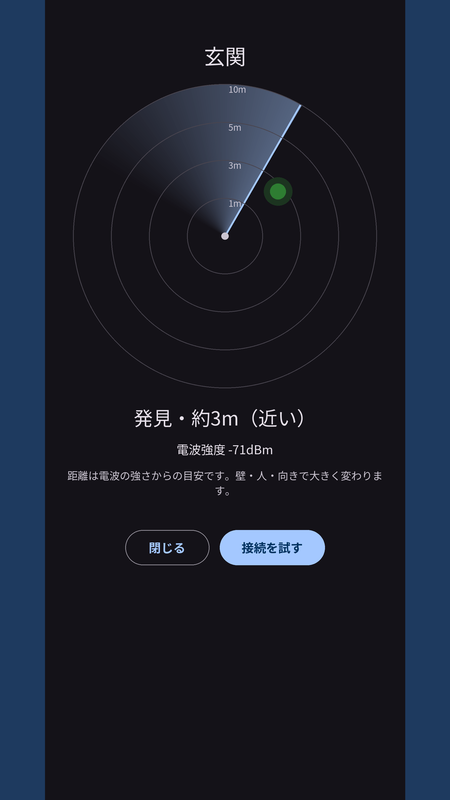
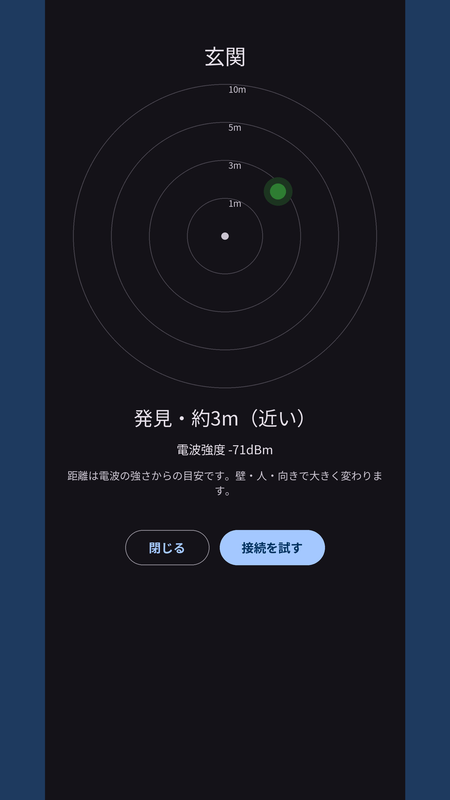
feat: 0台時の追加導線・全デバイスの接続確認の配置・接続確認のヘルプを見直し、文書を現行UIへ追従する (#100)
* refactor: ♻ 登録0台のときの追加導線を右下のボタンだけにする

空状態の「Sesameを追加」ボタンを外し、右下のボタンと導線が2つ並ばないようにした。
本文で右下のボタンの場所を案内する。ヘルプへの導線は残す。
RELEASE_NOTES・DESIGN・EXECUTEを更新した。

Claude-Session: https://claude.ai/code/session_01WnqNbaNbKwV6c5SNHH6CXg

* docs: 📝 0台時の追加導線の実機確認結果をEXECUTEへ記録する

Claude-Session: https://claude.ai/code/session_01WnqNbaNbKwV6c5SNHH6CXg

* fix: 🐛 EXECUTEの追記でYAMLが壊れていた箇所を直す

検証結果の文中の「コロン＋半角空白」でYAMLとして読み込めなかったため、句点へ置き換えた。

Claude-Session: https://claude.ai/code/session_01WnqNbaNbKwV6c5SNHH6CXg

* feat: ✨ 全デバイスの接続確認を右上アイコンと一覧末尾へ移し、接続確認のヘルプを追加する

全デバイスの接続確認ボタンが一覧の先頭にあり、よく使うカードを下へ押していたため、
右上のBluetoothアイコンと、一覧の末尾（カードの後ろ）の2か所へ移した。
接続確認の使い方をヘルプへ追加し、接続確認の画面の「この画面の見方」から直接開けるようにした。
ヘルプと操作画面に残っていた旧「⋮」の案内を歯車へ直した。

Claude-Session: https://claude.ai/code/session_01WnqNbaNbKwV6c5SNHH6CXg

* docs: 📝 ヘルプ文言を見直し、サイトと利用者向け文書の旧UI表記を更新する (BL-284)

ヘルプの日本語を整えた（一番下・つながって・重複や回りくどい表現）。タイルの「更新」など
実装と食い違っていた説明を直し、テストで固定した。公式アプリの案内文の「掴み」も改めた。
サイトへ接続確認の機能カードと画面イメージを追加し、README・USER_GUIDE・STORE_LISTINGと
デバッグ版の撮影モード画面に残っていた旧「⋮メニュー」の表記を設定画面へ直した。
旧UIのままの掲載スクリーンショットの撮り直しをBL-284として起票した。

Claude-Session: https://claude.ai/code/session_01WnqNbaNbKwV6c5SNHH6CXg

* docs: 📝 UIデザイン設計書を現行のUI（設定画面・接続確認）へ追従する

設定を歯車から開く設定画面、通知ページ、ヘルプのページ、操作履歴のページ、主画面の変更
（右上のBluetoothアイコン・一覧末尾の接続確認・空状態）、接続確認（スマートフォン・ウォッチ）の
章を更新・追加した。画面イメージは実機のスクリーンショットではないと明記した。

Claude-Session: https://claude.ai/code/session_01WnqNbaNbKwV6c5SNHH6CXg

* fix: 🐛 アニメーションがオフの端末でレーダーの掃引線を描かない

ウォッチの接続確認で回る線が動かない原因は、端末のアニメーション スケールが0のためで、
[…]

Changed region(s): [[0.28, 0.0938, 0.6844, 0.3125]]

diff --git a/index.html b/index.html
@@ -134,6 +134,11 @@
             <p>Sesame の近くでは Bluetooth で直接操作し、離れているときはインターネット経由へ自動で切り替えます。どちらで操作したかも表示します。</p>
           </li>
           <li class="card">
+            <span class="tag">接続確認</span>
+            <h3>Bluetooth で届くかを目で確かめる</h3>
+            <p>Sesame の電波をレーダーで追い、輪（1m・3m・5m・10m）の上に距離の目安を示します。「接続を試す」でログインまで確かめ、成功すると約 3 分間接続を保って、続く操作を速くします。複数台はまとめて確かめられ、ウォッチからも開けます。</p>
+          </li>
+          <li class="card">
             <span class="tag">ダイヤル</span>
             <h3>サムターンを回す感覚で</h3>
             <p>スマートフォンの「ダイヤル操作」で、サムターンの角度を針で見ながら、円を半周なぞって施錠・解錠できます。Bluetooth で届くときだけ操作します。</p>
@@ -200,6 +205,11 @@
             <h3>操作対象の選択</h3>
             <p>玄関・勝手口など、タイルごとに操作する Sesame を選べます。</p>
           </li>
+          <li class="card">
+            <img src="assets/radar-wear-found.png" alt="ウォッチの接続確認の画面イメージ（実機のスクリーンショットではない）。円形のレーダーの輪の上に Sesame の点があり、段階と距離が表示されている" width="384" height="384" loading="lazy">
+            <h3>接続確認（画面イメージ）</h3>
+            <p>小さな円形のレーダーに、段階と距離の目安を出します。</p>
+          </li>
         </ul>
         <h3 class="spaced">スマートフォン</h3>
         <p class="section-lead">Pixel 8 Pro での表示です（0.14.3。個人情報の写る部分は加工しています）。</p>
@@ -228,6 +238,11 @@
             <img class="phone" src="assets/phone-7-help.png" alt="アプリ内ヘルプ。値の取得方法やデモで試す方法などの項目が一覧になっている" width="450" height="800" loading="lazy">
             <h3>アプリ内ヘルプ</h3>
             <p>値の取得方法やデモの使い方を、アプリの中で確認できます。</p>
+          </li>
+          <li class="card">
+            <img class="phone" src="assets/radar-phone-found.png" alt="スマートフォンの接続確認の画面イメージ（実機のスクリーンショットではない）。レーダーの輪の上に Sesame の点があり、段階・電波の強さ・「接続を試す」のボタンが表示されている" width="450" height="800" loading="lazy">
+            <h3>接続確認（画面イメージ）</h3>
+            <p>Sesame の電波を捉えているか、接続とログインができるかを確かめます。</p>
           </li>
         </ul>
       </div>
